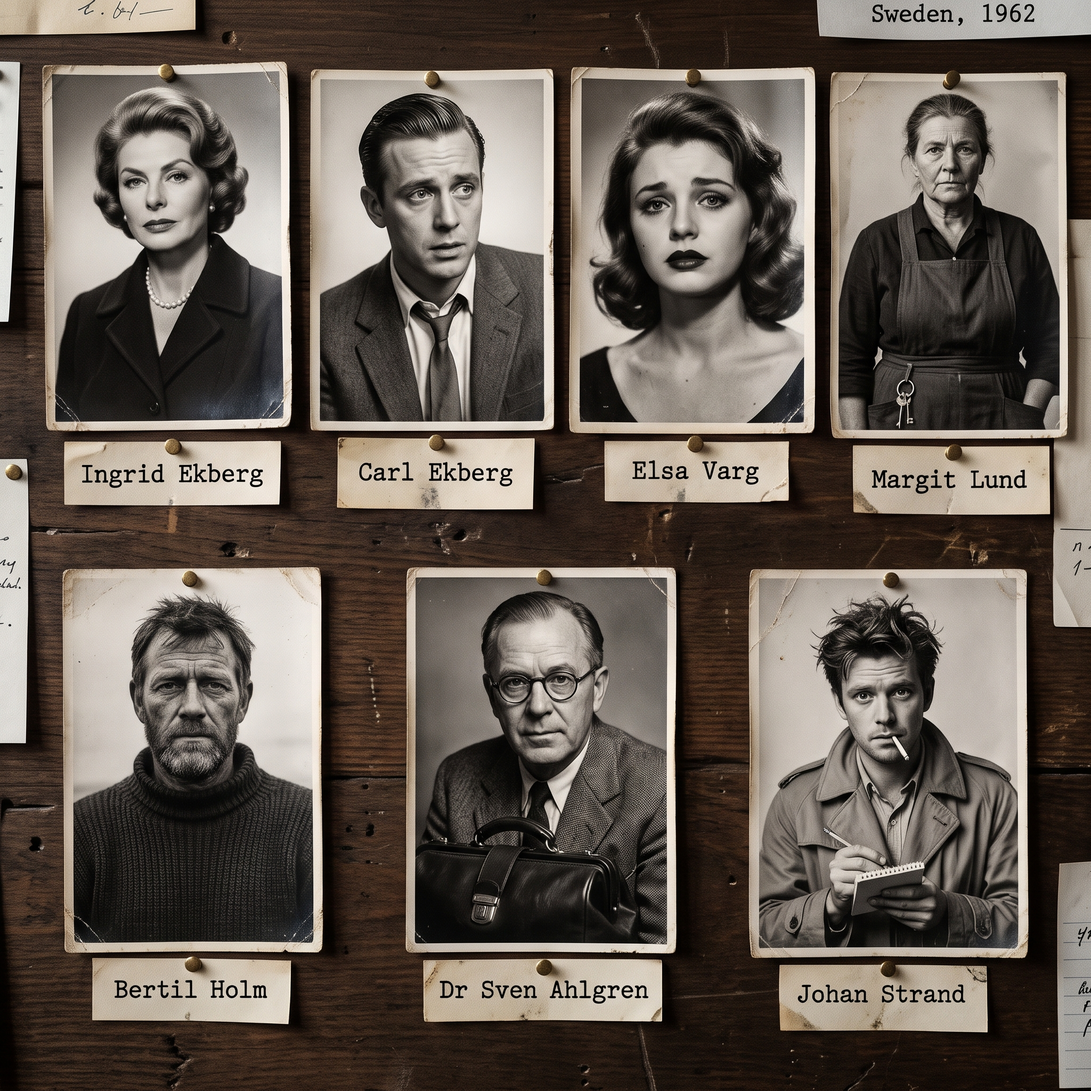
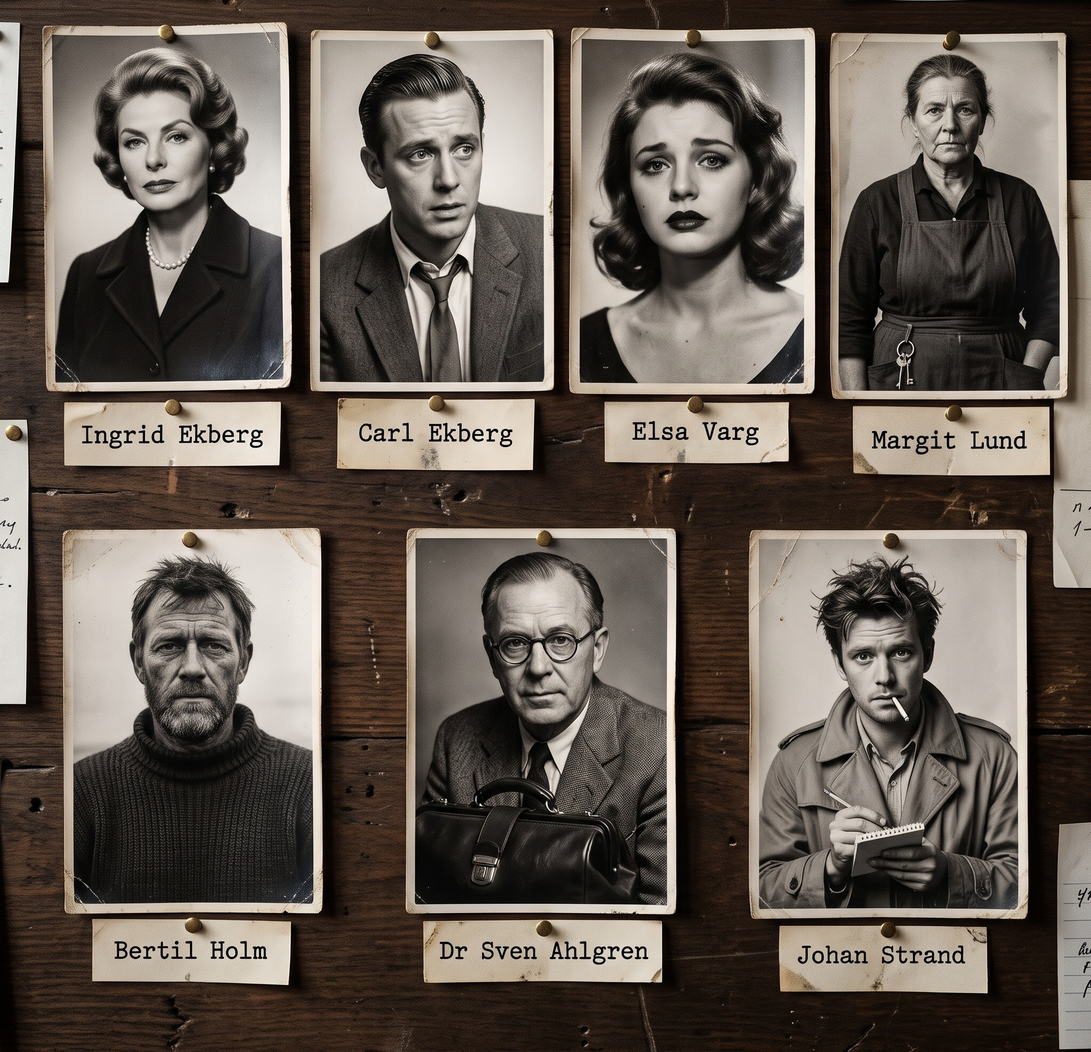
Bild mot text: datumet i lucka 6, trappans schakt, Carls led, receptet och lös text i två bilder

diff --git a/bilder/bildpromptar.html b/bilder/bildpromptar.html
@@ -42,12 +42,11 @@ button.ok { background: #7fb38a; }
 
 <div class="wrap">
   <section class="intro">
-    <p class="eyebrow">Mordet på Klovskär · bilder som återstår</p>
-    <h1>Sju bilder, alla från grunden</h1>
-    <p><strong>Klart 2 november:</strong> alla bilder ligger i spelet. Lucka 23:s visare målades om för hand eftersom Gemini inte klarade dem. Promptarna finns kvar som referens.</p>
-    <p>Varje prompt gör en <strong>helt ny bild</strong>. Du behöver inte ladda upp den gamla. Ladda gärna upp <code>brottsplats.jpg</code> eller <code>lucka-15.jpg</code> som stilreferens, så matchar de resten av spelet.</p>
-    <p>Promptarna är på engelska eftersom Gemini följer dem bättre så. Svensk text som ska synas i bilden står inom citattecken och ska stavas exakt så.</p>
-    <p>Spara den nya bilden i filsamlaren med <strong>målnamnet som filnamn</strong> (t.ex. <code>lucka-23.jpg</code>), så byter jag ut den direkt.</p>
+    <p class="eyebrow">Mordet på Klovskär · bilder med rotvälska</p>
+    <h1>Tre bilder att göra om</h1>
+    <p>Spelet fungerar utan dem, för all text finns också i dokumentet under bilden. Men i de här tre syns stora partier påhittade ord när man zoomar, och i lucka 21 saknas raden "Inga fler. 28/11".</p>
+    <p>Varje prompt gör en <strong>helt ny bild</strong>. Ladda gärna upp <code>lucka-15.jpg</code> eller <code>bonus-1.jpg</code> som stilreferens.</p>
+    <p>Lägg den nya bilden i filsamlaren med <strong>målnamnet som filnamn</strong> (t.ex. <code>lucka-21.jpg</code>), så byter jag ut den direkt.</p>
   </section>
   <div id="lista" style="display:grid;gap:28px"></div>
   <section class="tips">
@@ -65,103 +64,71 @@ const STIL = `Style: photorealistic, cinematic still from a 1960s Scandinavian n
 
 const bilder = [
   {
-    mal: "lucka-23",
-    fel: "Urmakarens fickur. Ska visa <b>23.47</b>, samma tid som brottsplatsen, och kronan ska vara utdragen. Det är beviset för att klockan ställdes om.",
+    mal: "lucka-21",
+    fel: "Brevet har fem rader rotvälska. Kassaboken visar en rad per år med månader som inte stämmer. Texten säger varje månad från juni 1935, och den viktiga sista raden <b>“Inga fler. 28/11.”</b> saknas.",
     prompt: `${STIL}
-Landscape 3:2. Close-up on a watchmaker's workbench at night, lit by a green-shaded brass desk lamp. On a square of dark green felt lies an open gold pocket watch with its glass cracked into a star. Around it: tweezers, tiny screwdrivers, a jeweller's loupe and a small brass parts tray.
+Landscape 4:3. Top-down view of a desk under warm lamplight. On the left, a single old handwritten letter on cream paper. On the right, an open ledger. Everything is sharp enough to read. No other text anywhere.
 
-The watch face is fully visible and seen almost straight from above, so the hands are easy to read. It shows a quarter to twelve: the LONG thin minute hand points at the 9 (slightly past it, towards the 10). The SHORT thick hour hand points almost straight up, very close to the 12, just a little to the left of it. The two hands form a wide V opening to the left. Classic black Arabic numerals 1–12 in the correct order, a small seconds dial at the 6.
+The letter, in neat feminine fountain-pen handwriting, exactly these lines and nothing else:
+"Göteborg, maj 1935"
+"Käre Harald,"
+"vårt barn är fött. En flicka."
+"Hon är frisk och har mörkt hår, som du."
+"Jag kan inte behålla henne. Du vet varför."
+"Ingen får någonsin veta."
+"M."
 
-The winding crown at the top of the watch is visibly pulled out a few millimetres, showing a gap of the steel stem.
+The ledger page has ruled columns. At the top, printed: "Kassabok". Eleven handwritten rows in dark ink, one per month, exactly:
+"1962 januari – M.L. 25 kr"
+"februari – M.L. 25 kr"
+"mars – M.L. 25 kr"
+"april – M.L. 25 kr"
+"maj – M.L. 25 kr"
+"juni – M.L. 25 kr"
+"juli – M.L. 25 kr"
+"augusti – M.L. 25 kr"
+"september – M.L. 25 kr"
+"oktober – M.L. 25 kr"
+"november – M.L. 25 kr"
 
-Beside the watch lies a small white card with neat handwriting in ink, three lines, exactly:
-"Urmakare A. Berg"
-"Kronan utdragen"
-"klockan har ställts om för hand."`
+Below the last row, in a different, darker ink and a hard, angry hand, one line:
+"Inga fler. 28/11."
+
+Spelling exact. Do not invent any other words.`
   },
   {
-    mal: "lucka-06",
-    fel: "Det sönderrivna brevet. Används även som pussel, så bitarna ska synas tydligt. Datumet ska vara <b>1962</b>.",
+    mal: "lucka-13a",
+    fel: "Mitten av testamentet är rotvälska, och där det ska stå “Undertecknas:” står det “Ungnatned”.",
     prompt: `${STIL}
-Landscape 4:3. A heavy old oak desk in a shipowner's private office at night, clearly searched in a hurry: drawers pulled out, papers spilled, an overturned inkwell (dry, no spill). A brass desk lamp is the only light; snow falls past the dark window behind.
+Landscape 4:3. Close-up of one sheet of cream paper on a dark leather desk blotter, a brass wax seal stamp, a stick of red sealing wax and a candle beside it. The sheet is fully in focus. Neat, firm, old-fashioned handwriting in black ink, exactly these lines and nothing else:
 
-In the centre of the desk, in sharp focus, lie six or seven torn pieces of a handwritten letter on cream paper, roughly pushed together so the writing can almost be read across the tears. Handwriting in black ink, an older man's firm hand. On the pieces, exactly these fragments and nothing else legible:
-"Dec. 1962"
-"…mitt nya testamente…"
-"…på Luciadagen…"
-"…hela familjen ska veta"
-Spelling exact. All other writing on the pieces is too small or torn to read.`
+"Mitt testamente" (underlined title)
+"Härmed förordnar jag, Harald Ekberg,"
+"att hela min kvarlåtenskap, med undantag"
+"av vad lagen tillerkänner min hustru,"
+"skall tillfalla"
+"Elsa Varg, född 1935 i Göteborg."
+"Min son Carl Ekberg skall erhålla"
+"sin laglott och intet därutöver."
+"Detta testamente skall tillkännagivas"
+"på Luciadagen 1962 i närvaro av familjen."
+"Undertecknas: ____________"
+
+The signature line is EMPTY: the will has not been signed. No wax seal on the paper. Spelling exact. No other words anywhere.`
   },
   {
-    mal: "bonus-1",
-    fel: "Besättningslistan för M/S Svanhild. <b>Bara de sex namnen</b>. Harald och Margit fanns inte ombord.",
+    mal: "bonus-3",
+    fel: "Sidan är nästan helt rotvälska. Bara raden med faderskapet och “S.A. ?” ska finnas.",
     prompt: `${STIL}
-Landscape 4:3. Top-down view of a yellowed typewritten sheet of paper lying on a dark wooden desk, a fountain pen and an inkwell beside it, warm lamplight from one side.
+Landscape 4:3. Close-up of the second page of a handwritten document on a dark wooden desk, warm lamplight from one side, a fountain pen at the edge. The page is almost empty, with lots of blank cream paper. Firm old-fashioned handwriting in black ink, one sentence only, at the top of the page:
 
-Typewritten with a 1950s office typewriter, exactly these lines:
-"Rederi AB Ekberg, Göteborg"
-"M/S Svanhild – Besättning, november 1954" (this line underlined)
-"Nils Ottosson, befälhavare"
-"Gustav Ek, styrman"
-"Ragnar Lind, maskinist"
-"Lars Holm, däcksman, 19 år"
-"Erik Sjöberg, kock"
-"Olof Persson, matros"
+"… och detta under förutsättning att faderskapet bekräftas av läkare före undertecknandet."
 
-A hand-drawn pencil oval circles ONLY the line "Lars Holm, däcksman, 19 år".
-At the bottom of the page, handwritten in blue-black ink, slanted, one line:
-"Skrovet rostigt – åtgärdas EJ före resan. H.E."
+The words from "faderskapet" to "undertecknandet" are crossed out with several hard, angry strokes of the pen, so hard that the paper is torn along the line. The crossed-out words can still be read.
 
-Exactly six names, no other names, no duplicates. Spelling exact.`
-  },
-  {
-    mal: "bonus-2",
-    fel: "Kommissariens dagbok. Bara en mening, och <b>ingen saffran</b>. Den ledtråden kommer först i lucka 22.",
-    prompt: `${STIL}
-Landscape 4:3. An open leather-bound diary on a bedside table in a simple hotel room at night. A pressed purple violet lies in the fold between the pages. A cup of tea, a fountain pen and a small reading lamp beside it.
+In the left margin beside that line, in soft grey pencil, small: "S.A. ?"
 
-On the left page, in neat, upright handwriting in dark ink, two lines only:
-"Alla ljuger."
-"Frågan är vem som ljuger om rätt sak."
-
-The right page is blank cream paper. No other text anywhere. Spelling exact.`
-  },
-  {
-    mal: "bonus-5",
-    fel: "Margits receptbok. Ska bara visa att hon bakar lussekatter. <b>Ingen anteckning om tornet</b> och ingen engelska.",
-    prompt: `${STIL}
-Landscape 4:3. A warm hotel kitchen table in early morning light: a worn handwritten recipe book lying open, a small fold of paper with deep orange saffron threads, a bowl of raisins, a floury wooden rolling pin, and a baking tray of freshly baked golden Swedish saffron buns shaped as S-curls with a raisin in each end.
-
-The right-hand page of the recipe book has old-fashioned Swedish handwriting in ink, exactly:
-"Lussekatter" (underlined title)
-"1 g saffran"
-"150 g smör"
-"5 dl mjölk"
-"50 g jäst"
-"2 dl socker"
-"ca 15 dl vetemjöl"
-"russin"
-
-The left-hand page has faint, unreadable older writing. No margin notes, no dates, no English. Spelling exact.`
-  },
-  {
-    mal: "facit",
-    fel: "Avslöjandet. Den gamla hade dubbla personer. Den här visar <b>bara husfrun</b> i fokus, så det kan inte hända igen.",
-    prompt: `${STIL}
-Landscape 16:9. The hotel salon on Christmas Eve, lit by candles on a decorated Christmas tree and a fire in the hearth. In the foreground, slightly left of centre, stands a woman of about 50, the hotel housekeeper: grey hair in a neat bun, dark dress with a white apron, head bowed, hands folded in front of her, eyes on the floor. She is the only person in sharp focus, and she appears only once.
-
-On a low table in the very front of the frame lies a large bunch of old iron keys on a ring.
-
-In the soft, out-of-focus background on the right: the back and shoulder of a woman in a tweed suit (the inspector), seen from behind. No other people in the image.
-
-In the lower right corner, a slightly tilted red rubber stamp, as if stamped on the photo, with exactly the text:
-"FALLET LÖST"`
-  },
-  {
-    mal: "meny-matare",
-    fel: "Menybild för Misstankemätaren, där laget röstar varje dag på vem de tror är mördaren.",
-    prompt: `${STIL}
-Landscape 16:9. On a dark wooden table in a hotel salon at night: a handful of small folded paper ballot slips, some open, a pencil, and a polished brass ship's barometer whose needle points into the red. Snow falling outside the frosted window behind, a candle burning. The image should read clearly even when shown small. No legible text anywhere.`
+Spelling exact. Nothing else is written anywhere on the page.`
   }
 ];
 

diff --git a/content/luckor.ts b/content/luckor.ts
@@ -101,7 +101,7 @@ Hon gick aldrig uppför trappan, säger hon, och hon rörde honom inte. Holm bek
 
 Kroppen kall och stel. Doktor Ahlgren bedömer att döden inträffat "för minst sex, kanske nio timmar sedan".
 
-Trappan har inget räcke mot mitten. Han har fallit genom öppningen, nästan hela vägen ner.
+Trappan går runt en järnpelare och räcket är bara knähögt. Mellan trappan och tornväggen går ett öppet schakt ända ner. Han har fallit i det, nästan hela vägen.
 
 Fickuret låg på golvet bredvid honom, kedjan fortfarande fäst i västen. Det har stannat. Visarna står på 23.47. Glaset krossat, som av fallet.
 
@@ -207,7 +207,7 @@ Jag har bett honom att inte lämna ön. Han svarade att det inte går ändå.`,
     titel: "Det sönderrivna brevet",
     ingress: "Haralds kontor har genomsökts av någon under natten. Bitarna låg i papperskorgen.",
     bilder: [
-      { namn: "lucka-06", alt: "Ett skrivbord i mörkret med sönderrivna brevbitar som lagts ihop. Bitarna nämner Dec. 1962, mitt nya testamente och Luciadagen." },
+      { namn: "lucka-06", alt: "Ett skrivbord i mörkret med sönderrivna brevbitar som lagts ihop. Bitarna nämner 28 nov. 1962, mitt nya testamente, Luciadagen och att hela familjen ska veta." },
     ],
     interaktion: "pussel",
     pussel: [
@@ -218,7 +218,7 @@ Jag har bett honom att inte lämna ön. Han svarade att det inte går ändå.`,
       "Mitt nya testamente ska",
       "INTE undertecknas som vi sagt.",
       "Jag läser upp min vilja",
-      "själv på Luciadagen – inför alla.",
+      "själv på Luciadagen – hela familjen ska veta.",
       "Någon i detta hus har ljugit",
       "för mig i tjugosju år.",
       "H. Ekberg",
@@ -233,7 +233,7 @@ Det var ingen rånare. Pengarna i kassaskrinet ligger kvar, 340 kronor.
 
 Den som letade ville ha papper.
 
-I papperskorgen under skrivbordet låg ett brev rivet i elva bitar. Haralds handstil. Det har aldrig skickats – han måste ha ändrat sig och rivit det själv. Han ville säga det med egen mun.
+I papperskorgen under skrivbordet låg ett brev rivet i bitar. Haralds handstil. Det har aldrig skickats – han måste ha ändrat sig och rivit det själv. Han ville säga det med egen mun.
 
 Jag har lagt bitarna på bordet. Hjälp mig att få ordning på dem.
 
@@ -241,7 +241,7 @@ Sedan vill jag att ni funderar på två frågor. Vilket besked fick Harald den 2
       },
     ],
     fraga: "Vem kan ha ljugit för Harald i tjugosju år?",
-    teaser: "Lucka 6 är öppen – elva bitar papper i en papperskorg.",
+    teaser: "Lucka 6 är öppen – ett rivet brev i en papperskorg.",
   },
   {
     nr: 7,
@@ -371,7 +371,7 @@ Var var Carl i natt? Han säger att han låg och läste i sitt rum. Hans skor st
       {
         format: "foto",
         rubrik: "Fotografi nr 14 – Sjöboden, 1 dec. kl. 07.50",
-        text: `Ett spår av herrkängor, storlek 43 eller 44, går från sjöbodens dörr rakt söderut över isen. Ett annat spår, samma kängor, kommer tillbaka. Det andra spåret ligger ovanpå det första.
+        text: `Ett spår av herrkängor, storlek 43 eller 44, går från sjöbodens dörr ut över isen. Ett annat spår, samma kängor, kommer tillbaka. Det andra spåret ligger ovanpå det första.
 
 I spåret närmast boden: en fimp av märket John Silver. Rökt till hälften.
 

diff --git a/content/bonus.ts b/content/bonus.ts
@@ -151,7 +151,7 @@ Om resultatet bekräftade faderskapet hade han inte behövt stryka villkoret i v
       {
         format: "anteckningsbok",
         rubrik: "Smugglarleden",
-        text: `Carl har ritat sin väg över isen med blyerts. Från sjöbodens brygga rakt söderut, förbi grundet vid 4 meter, till den västra udden på Kråkskär. Ett kryss där lådorna läggs.
+        text: `Carl har ritat sin väg över isen med blyerts. Från bryggan sydost över isen, i en båge runt grundet vid 4 meter, till den östra udden på Kråkskär. Ett kryss där lådorna läggs.
 
 I marginalen tre datum: 16/11, 23/11, 30/11. Varje fredag.
 
@@ -185,10 +185,10 @@ Carl Ekberg är en smugglare och en dålig son. Men han är ingen mördare.`,
 - 150 g smör
 - 5 dl mjölk
 - 50 g jäst (för söta degar)
-- 1 ½ dl socker
+- 2 dl socker
 - ½ tsk salt
 - 1 ägg
-- ca 14–15 dl vetemjöl
+- ca 15 dl vetemjöl
 
 **Till garnering**
 - russin
@@ -227,7 +227,7 @@ Carl Ekberg är en smugglare och en dålig son. Men han är ingen mördare.`,
 
 **Urverket:** driver linsens rotation med ett lod som vevas upp en gång per kväll och räcker natten ut. Om urverket stannar står linsen still och fyren slutar blinka och lyser fast, tills urverket startas igen. Urverket nås från avsatsen under lyktrummet.
 
-**Spiraltrappan:** gjutjärn, 34 steg, utan räcke mot mitten. Öppningen i mitten går ända ner.
+**Spiraltrappan:** gjutjärn, 34 steg, runt en mittpelare. Räcket är knähögt. Mellan trappan och väggen går ett öppet schakt ända ner.
 
 **Ingång:** ekdörr med lås. Två nycklar (ombytt lås okt. 1962).`,
       },

diff --git a/content/facit.ts b/content/facit.ts
@@ -40,7 +40,7 @@ Elsa kom in och grälet började. När Elsa sprang därifrån tjugo i elva var H
 
 Han ställde glaset på tredje trappsteget och tog sig upp till urverket för att veva det, som varje kväll. Margit gick efter från köksdörren längs grusgången – det var hennes steg och hennes nyckelknippa journalisten hörde under fönstret. Uppe på avsatsen, där Harald stod och svajade, tog hon honom i kragen och knuffade.
 
-Han föll mot urverket. Linsen stannade och ljuset störde till – 22.52. Sedan föll han genom trappans öppna mitt, nästan hela vägen ner.`,
+Han föll mot urverket. Linsen stannade och ljuset störde till – 22.52. Sedan föll han över det låga räcket och ner i schaktet, nästan hela vägen.`,
   },
   {
     rubrik: "Den falska tiden",

diff --git a/scripts/ratta-datum-lucka06.py b/scripts/ratta-datum-lucka06.py
@@ -1,0 +1,21 @@
+# Byter "Dec." mot "28 nov." i brevbiten i lucka-06: Harald dog 30 nov, och brevet skrevs den 28:e.
+# Körs: python3 scripts/ratta-datum-lucka06.py <in.jpg> <ut.jpg>
+import sys, cv2, numpy as np
+from PIL import Image, ImageDraw, ImageFont, ImageFilter
+src, ut = sys.argv[1], sys.argv[2]
+img = cv2.imread(src)
+mask = np.zeros(img.shape[:2], np.uint8)
+cv2.rectangle(mask, (1376, 812), (1520, 860), 255, -1)
+ren = cv2.inpaint(img, mask, 9, cv2.INPAINT_TELEA)
+brus = (np.random.default_rng(1962).normal(0, 2.2, img.shape)).astype(np.float32)
+m = cv2.GaussianBlur(mask.astype(np.float32) / 255, (0, 0), 3)[..., None]
+ren = np.clip(ren + brus * m, 0, 255).astype(np.uint8)
+bas = Image.fromarray(cv2.cvtColor(ren, cv2.COLOR_BGR2RGB)).convert("RGBA")
+W, H, SS = 300, 80, 4
+lager = Image.new("RGBA", (W * SS, H * SS), (0, 0, 0, 0))
+d = ImageDraw.Draw(lager)
+d.text((6 * SS, 10 * SS), "28 nov.", font=ImageFont.truetype("/home/rabnoralex/docker/nextcloud/custom_apps/richdocuments/fonts/Caveat-wght.ttf", 50 * SS), fill=(92, 76, 56, 225))
+lager = lager.transform(lager.size, Image.AFFINE, (1, 0.28, 0, 0, 1, 0), resample=Image.BICUBIC).rotate(-1, resample=Image.BICUBIC).resize((W, H), Image.LANCZOS).filter(ImageFilter.GaussianBlur(1.2))
+bbox = lager.getbbox()
+bas.alpha_composite(lager, (1510 - bbox[2], 836 - (bbox[1] + bbox[3]) // 2))
+cv2.imwrite(ut, cv2.cvtColor(np.asarray(bas.convert("RGB"), dtype=np.uint8), cv2.COLOR_RGB2BGR), [cv2.IMWRITE_JPEG_QUALITY, 94])

diff --git a/bilder/RAPPORT.md b/bilder/RAPPORT.md
@@ -40,3 +40,8 @@ Inga utöver den identiska `livdml`-kopian. Inga okända bilder.
 ## Uppdatering 2026-11-02 kväll
 Alla bilder på plats. `lucka-06`, `bonus-1`, `bonus-2`, `bonus-5`, `facit` och `meny-matare` gjordes om från grunden.
 `lucka-23`: Gemini klarade inte visarna – de är bortmålade och omritade till 23.47 med `scripts/rita-visare-lucka23.py`.
+
+## Bild mot text, 2026-11-06
+Alla bilder jämförda mot luckornas text.
+Rättat: `lucka-06` datum (Dec. → 28 nov., `scripts/ratta-datum-lucka06.py`), `bonus-6` lösa "9:16" borttagna, `misstankta` engelsk lapp bortkapad. Texten anpassad till bilderna: trappan har mittpelare och schakt mot väggen, Carls led går sydost till östra udden, receptets mängder, pusslet i lucka 6.
+Väntar på nya bilder från användaren: `lucka-13a`, `lucka-21` (saknar "Inga fler. 28/11"), `bonus-3`. Promptar i `bildpromptar.html`.
